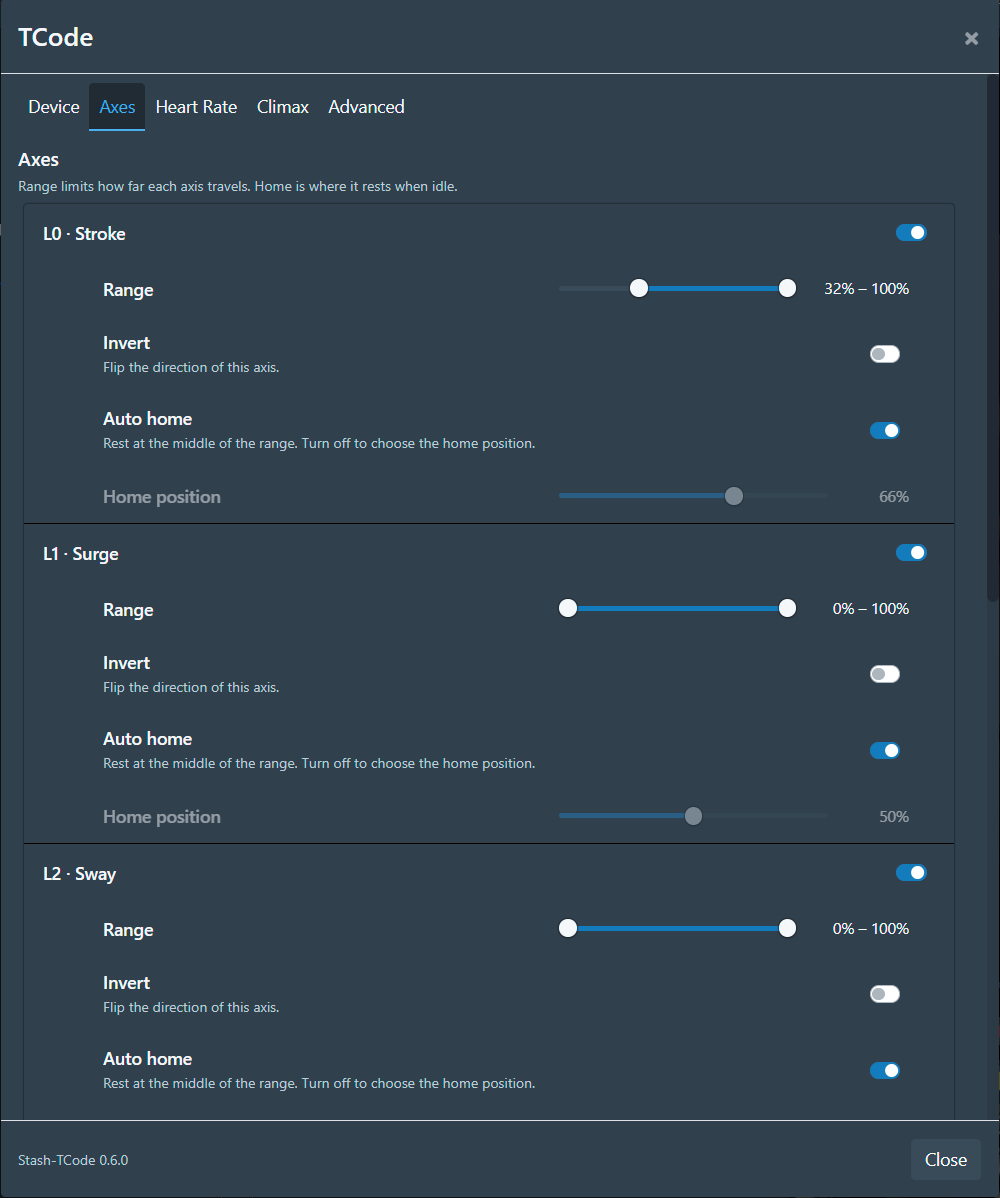
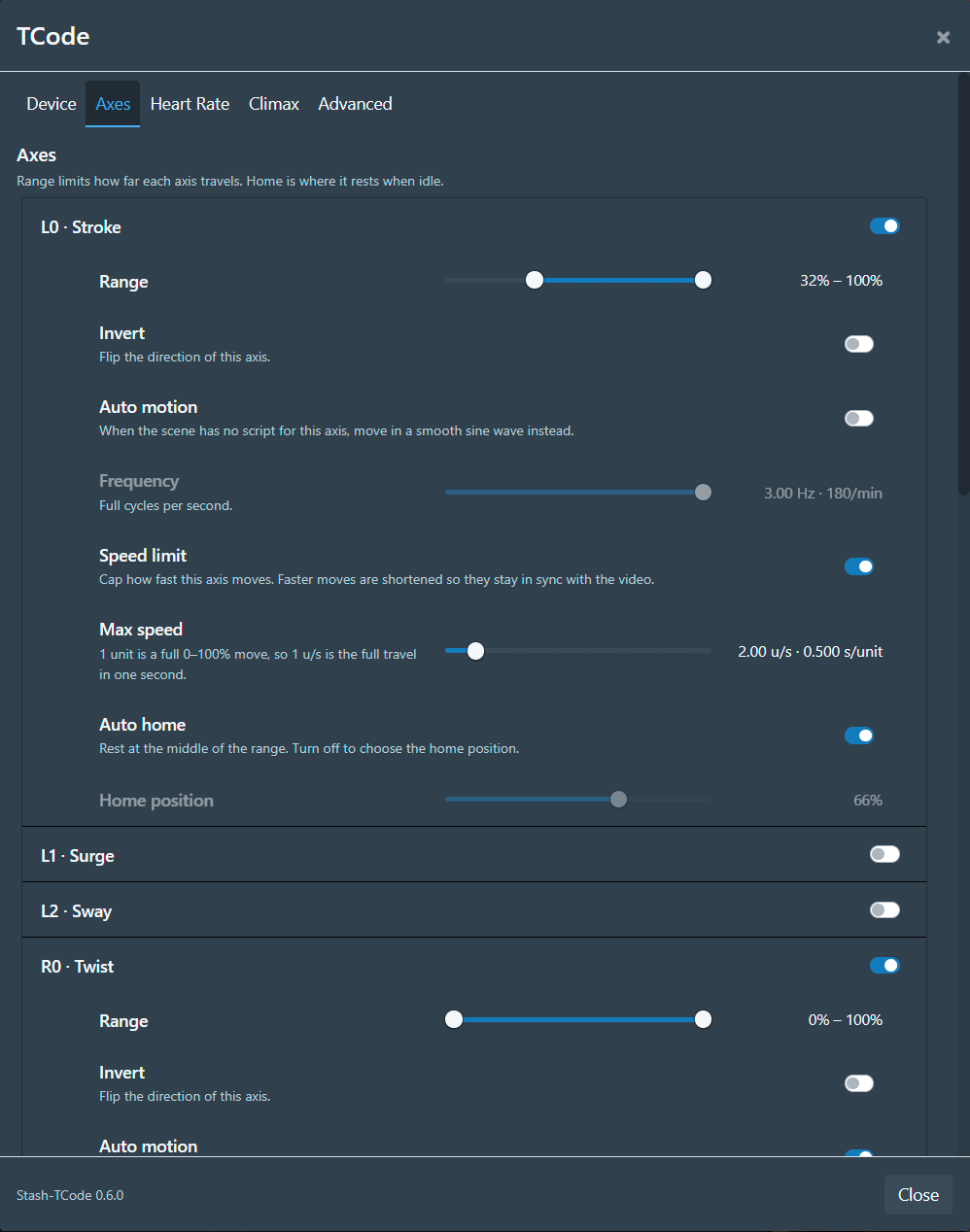
Make the speed limit per axis, in full travels per second
Each axis gets its own Speed limit switch and Max speed on the Axes tab,
in u/s as MultiFunPlayer uses them: 1 unit is a full 0-100% move, so
1 u/s is the full travel in one second (shown with s/unit). The earlier
global setting, in either unit, is carried onto every axis on load.

Also widens the dialog's slider column so all sliders line up, stops
Stash wrapping grouped rows, and refreshes the Axes screenshot.

diff --git a/stash-tcode.user.js b/stash-tcode.user.js
@@ -111,9 +111,9 @@ function saveSettings(){
 
 function loadSettings(){
     var thisVersion = GM_info.script.version;
-    var axisDefaults = function(enabled){ return {enabled: enabled, invert: false, center: null, autoCenter: true, auto: false, autoHz: 0.5}; };
+    var axisDefaults = function(enabled){ return {enabled: enabled, invert: false, center: null, autoCenter: true, auto: false, autoHz: 0.5,
+                                                  speedLimit: false, maxSpeed: 5}; };
     var defaultSettings = {"debug": false, "sync": 0, "autoConnect": true, "serialPort": null, "showHud": true,
-                           "speedLimit": false, "maxUnitsPerSec": 50000,
                            "showNotifications": true, "centerTime": 1000, "homeEnabled": true,
                            "axes": { L0: axisDefaults(true), L1: axisDefaults(false), L2: axisDefaults(false),
                                      R0: axisDefaults(false), R1: axisDefaults(false), R2: axisDefaults(false) },
@@ -130,12 +130,19 @@ function loadSettings(){
         if(settings.hr.edgeHr == null){ settings.hr.edgeHr = settings.hr.climaxHr; }
         delete settings.hr.climaxHr;
     }
-    // Max speed was briefly stored in full-travels per second ("maxSpeed"); it's now TCode
-    // units (0-9999 scale) per second.
-    if(settings.maxSpeed != null){
-        if(settings.maxUnitsPerSec == null){ settings.maxUnitsPerSec = Math.round(settings.maxSpeed * 9999 / 500) * 500; }
-        delete settings.maxSpeed;
+    // The speed limit started as one global setting (in full travels/s as "maxSpeed",
+    // then TCode units/s as "maxUnitsPerSec"). It's now per axis, in full travels/s like
+    // MultiFunPlayer. Carry a global setting onto every axis.
+    var globalLimit = settings.maxUnitsPerSec != null ? settings.maxUnitsPerSec / 9999
+                    : (settings.maxSpeed != null ? settings.maxSpeed : null);
+    if(settings.axes && (globalLimit != null || settings.speedLimit != null)){
+        for(const ax in settings.axes){
+            var a = settings.axes[ax];
+            if(a.maxSpeed == null && globalLimit != null){ a.maxSpeed = Math.round(globalLimit * 4) / 4; }
+            if(a.speedLimit == null){ a.speedLimit = !!settings.speedLimit; }
+        }
     }
+    delete settings.speedLimit; delete settings.maxUnitsPerSec; delete settings.maxSpeed;
     backfillDefaults(settings, defaultSettings);
     // Drop settings for features that no longer exist (hotkeys, random motion).
     for(const gone of ["device", "initialKey", "minKey", "settingsKey", "syncKey"]){ delete settings[gone]; }
@@ -190,6 +197,7 @@ function injectUiStyles(){
 #tcode-modal .setting-group { padding-bottom: 0; }
 #tcode-modal .setting-group:not(:last-child) { border-bottom: 1px solid #000; }
 #tcode-modal .setting-group > .setting { border-bottom: none; }
+#tcode-modal .setting-group .setting { flex-wrap: nowrap; } /* Stash wraps grouped rows; keep controls beside their label */
 #tcode-modal .setting-group.collapsed > .setting:not(:first-child) { display: none; }
 #tcode-modal .modal-footer { justify-content: space-between; }
 #tcode-modal .tcode-version { color: ${STASH.muted}; font-size: .8rem; }
@@ -201,7 +209,7 @@ function injectUiStyles(){
 #tcode-modal .tcode-list { margin: .25rem 0 0; padding-left: 1.1rem; color: ${STASH.muted}; }
 
 /* Range sliders: thin track in the input colour, accent fill, light thumb. */
-.tcode-range { display: flex; align-items: center; gap: .6rem; width: 280px; max-width: 100%; }
+.tcode-range { display: flex; align-items: center; gap: .6rem; width: 360px; max-width: 100%; }
 .tcode-range .tcode-track { position: relative; flex: 1 1 auto; height: 20px; }
 .tcode-range input[type=range] {
     -webkit-appearance: none; appearance: none; position: absolute; inset: 0; width: 100%; height: 20px;
@@ -220,8 +228,7 @@ function injectUiStyles(){
 .tcode-range.dual input[type=range] { pointer-events: none; }
 .tcode-range.dual input[type=range]::-webkit-slider-thumb { pointer-events: auto; }
 .tcode-range.dual input[type=range].upper::-webkit-slider-runnable-track { background: transparent; }
-.tcode-range output { min-width: 4.5em; text-align: right; font-variant-numeric: tabular-nums; color: ${STASH.text}; font-size: .9rem; }
-.tcode-range.dual output { min-width: 6.5em; }
+.tcode-range output { min-width: 10.5em; text-align: right; font-variant-numeric: tabular-nums; color: ${STASH.text}; font-size: .9rem; }
 
 /* Toasts, in Stash's secondary colour with a coloured edge per type. */
 #tcode-toasts { position: fixed; bottom: 1.5rem; left: 50%; transform: translateX(-50%); z-index: 1080;
@@ -599,13 +606,6 @@ function buildDeviceTab(body){
     uiSetting(play, "Sync offset", "Shifts the script against the video. Positive plays strokes earlier.",
         uiRange('sync', parseInt(settings.sync) || 0, {min: -250, max: 250, origin: 0, format: ms}, null,
                 function(v){ settings.sync = v; saveSettings(); }).el);
-    var speedRow;
-    uiSetting(play, "Speed limit", "Cap how fast any axis can move. Faster moves are shortened so they stay in sync with the video.",
-        uiSwitch('speedLimit', settings.speedLimit, function(v){ settings.speedLimit = v; speedRow.classList.toggle('disabled', !v); saveSettings(); }));
-    speedRow = uiSetting(play, "Max speed", "In TCode units per second. An axis's full travel is 0-9999 units.",
-        uiRange('maxSpeed', settings.maxUnitsPerSec, {min: MAX_SPEED_MIN, max: MAX_SPEED_MAX, step: 500,
-                format: function(v){ return Math.round(v).toLocaleString('en-US') + " u/s"; }}, null,
-                function(v){ settings.maxUnitsPerSec = v; saveSettings(); }).el, {sub: true, disabled: !settings.speedLimit});
 
     var home = uiSection(body, "Homing");
     uiSetting(home, "Home on connect and scene change", "Off leaves the device wherever it stopped.",
@@ -662,6 +662,13 @@ function buildAxisGroup(card, axis){
     freqRow = uiSetting(group, "Frequency", "Full cycles per second.",
         uiRange('autoHz' + axis, cfg.autoHz, {min: AUTO_HZ_MIN, max: AUTO_HZ_MAX, step: 0.05, format: hzFormat}, null,
                 function(v){ cfg.autoHz = v; saveSettings(); }).el, {sub: true, disabled: !cfg.auto});
+    var speedRow;
+    uiSetting(group, "Speed limit", "Cap how fast this axis moves. Faster moves are shortened so they stay in sync with the video.",
+        uiSwitch('speedLimit' + axis, cfg.speedLimit, function(v){ cfg.speedLimit = v; speedRow.classList.toggle('disabled', !v); saveSettings(); }), {sub: true});
+    var speedFormat = function(v){ return v.toFixed(2) + " u/s · " + (1 / v).toFixed(3) + " s/unit"; };
+    speedRow = uiSetting(group, "Max speed", "1 unit is a full 0–100% move, so 1 u/s is the full travel in one second.",
+        uiRange('maxSpeed' + axis, cfg.maxSpeed, {min: MAX_SPEED_MIN, max: MAX_SPEED_MAX, step: 0.25, format: speedFormat}, null,
+                function(v){ cfg.maxSpeed = v; saveSettings(); }).el, {sub: true, disabled: !cfg.speedLimit});
     uiSetting(group, "Auto home", "Rest at the middle of the range. Turn off to choose the home position.",
         uiSwitch('autoCenter' + axis, cfg.autoCenter !== false, function(v){
             cfg.autoCenter = v;
@@ -1975,17 +1982,18 @@ function autoMotion(axis, ms, jumped, a){
 // ---------------------------------
 
 // --- SPEED LIMIT ---
-// Caps how fast an axis may travel, in TCode units per second (u/s): positions run
-// 0-9999, so 9999 u/s is the full travel in one second. A move that would be faster has
-// its end pulled back toward where the axis is, so it fits in the same time. Timing
-// never changes, so playback stays in sync, and the next move starts from the clipped point.
+// Caps how fast an axis may travel, per axis, in units per second (u/s) as MultiFunPlayer
+// uses them: 1 unit is a full 0-100% move (0-9999 in TCode), so 1 u/s is the full travel
+// in one second. A move that would be faster has its end pulled back toward where the
+// axis is, so it fits in the same time. Timing never changes, so playback stays in sync,
+// and the next move starts from the clipped point.
 
-var MAX_SPEED_MIN = 1000;
-var MAX_SPEED_MAX = 100000;
+var MAX_SPEED_MIN = 0.25;
+var MAX_SPEED_MAX = 20;
 
 function limitSpeed(from, to, intervalMs, maxUps){
     if(from == null || !(maxUps > 0)){ return to; }
-    var reach = maxUps * Math.max(0, intervalMs) / 1000;
+    var reach = maxUps * 9999 * Math.max(0, intervalMs) / 1000;
     var d = to - from;
     if(Math.abs(d) <= reach){ return to; }
     return Math.round(from + Math.sign(d) * reach);
@@ -2042,9 +2050,10 @@ function centerAxis(axis){
     var from = AXIS[axis].lastPos;
     // Homing is slowed rather than shortened by the speed limit: it has to arrive. An
     // unknown start position is treated as the far end of travel.
-    if(settings.speedLimit && settings.maxUnitsPerSec > 0){
+    var cfg = settings.axes[axis];
+    if(cfg.speedLimit && cfg.maxSpeed > 0){
         var dist = from != null ? Math.abs(home - from) : Math.max(home, 9999 - home);
-        ramp = Math.max(ramp, Math.ceil(dist / settings.maxUnitsPerSec * 1000));
+        ramp = Math.max(ramp, Math.ceil(dist / (cfg.maxSpeed * 9999) * 1000));
     }
     AXIS[axis].lastPos = home;
     sendTCode(axis + String(home).padStart(4, '0') + "I" + ramp + '\n');
@@ -2065,7 +2074,8 @@ function queueMove(axis, pos, int){
     pos = clamp9999(pos);
     int = Math.round(Number(int));
     if(!isFinite(int) || int < 0){ int = 0; }
-    if(settings.speedLimit){ pos = limitSpeed(AXIS[axis].lastPos, pos, int, settings.maxUnitsPerSec); }
+    var cfg = settings.axes[axis];
+    if(cfg && cfg.speedLimit){ pos = limitSpeed(AXIS[axis].lastPos, pos, int, cfg.maxSpeed); }
     AXIS[axis].lastPos = pos;
     // TCode magnitude is the digits after "0." -- send all four so the axis can reach
     // its real endpoints (two digits capped every axis at 0.99 and quantised to 1%).

diff --git a/tests/governor.test.js b/tests/governor.test.js
@@ -128,13 +128,13 @@ check('sine stays in 0..100', [0, 0.05, 1, 3].every(hz => Array.from({length: 20
 check('sine frequency clamped to 3 Hz', near(api.sinePosition(10, 1000 / 12, 0), api.sinePosition(3, 1000 / 12, 0)));
 check('axes start at different points', !near(api.sinePosition(0.5, 0, 0), api.sinePosition(0.5, 0, 3)));
 
-// --- speed limit (TCode units per second; full travel is 0-9999) ---
-check('within limit unchanged', api.limitSpeed(0, 4000, 1000, 5000) === 4000);
-check('too fast is shortened, same direction', api.limitSpeed(0, 9999, 100, 50000) === 5000 && api.limitSpeed(9999, 0, 100, 50000) === 4999);
-check('exactly at limit unchanged', api.limitSpeed(1000, 9999, 1000, 8999) === 9999);
-check('unknown start not limited', api.limitSpeed(null, 9999, 10, 10000) === 9999);
+// --- speed limit (u/s as in MultiFunPlayer: 1 unit = a full 0-100% move, 0-9999) ---
+check('within limit unchanged', api.limitSpeed(0, 4000, 1000, 0.5) === 4000);
+check('too fast is shortened, same direction', api.limitSpeed(0, 9999, 100, 5) === 5000 && api.limitSpeed(9999, 0, 100, 5) === 5000);
+check('exactly at limit unchanged', api.limitSpeed(0, 9999, 1000, 1) === 9999);
+check('unknown start not limited', api.limitSpeed(null, 9999, 10, 1) === 9999);
 check('limit off (0) not limited', api.limitSpeed(0, 9999, 10, 0) === 9999);
-check('zero interval stays put', api.limitSpeed(3000, 9000, 0, 50000) === 3000);
+check('zero interval stays put', api.limitSpeed(3000, 9000, 0, 5) === 3000);
 
 console.log(fails ? fails + ' FAILED' : 'all passed');
 process.exit(fails ? 1 : 0);

diff --git a/README.md b/README.md
@@ -15,9 +15,9 @@ Maintained by **dtt**. Originally based on Stash-TCode by Steel, with modificati
 - Handles single-axis and multi-axis funscripts, plus separate per-axis files
   (`.surge`, `.sway`, `.twist`, `.roll`, `.pitch`).
 - Per-axis range, invert and home position, all saved across refreshes.
-- Optional speed limit in TCode units per second (positions run 0-9999, so 9,999 u/s is the full
-  travel in one second). Moves that would be faster are shortened rather than slowed, so playback
-  stays in sync.
+- Optional per-axis speed limit in u/s, as in MultiFunPlayer: 1 unit is a full 0-100% move, so
+  1 u/s is the full travel in one second. Moves that would be faster are shortened rather than
+  slowed, so playback stays in sync.
 - Auto motion: any axis the scene has no script for can follow a smooth sine wave at its own
   frequency, so a video without a funscript still gets motion.
 - Settings live in a dialog built from Stash's own components, so it matches Stash and any custom theme.
